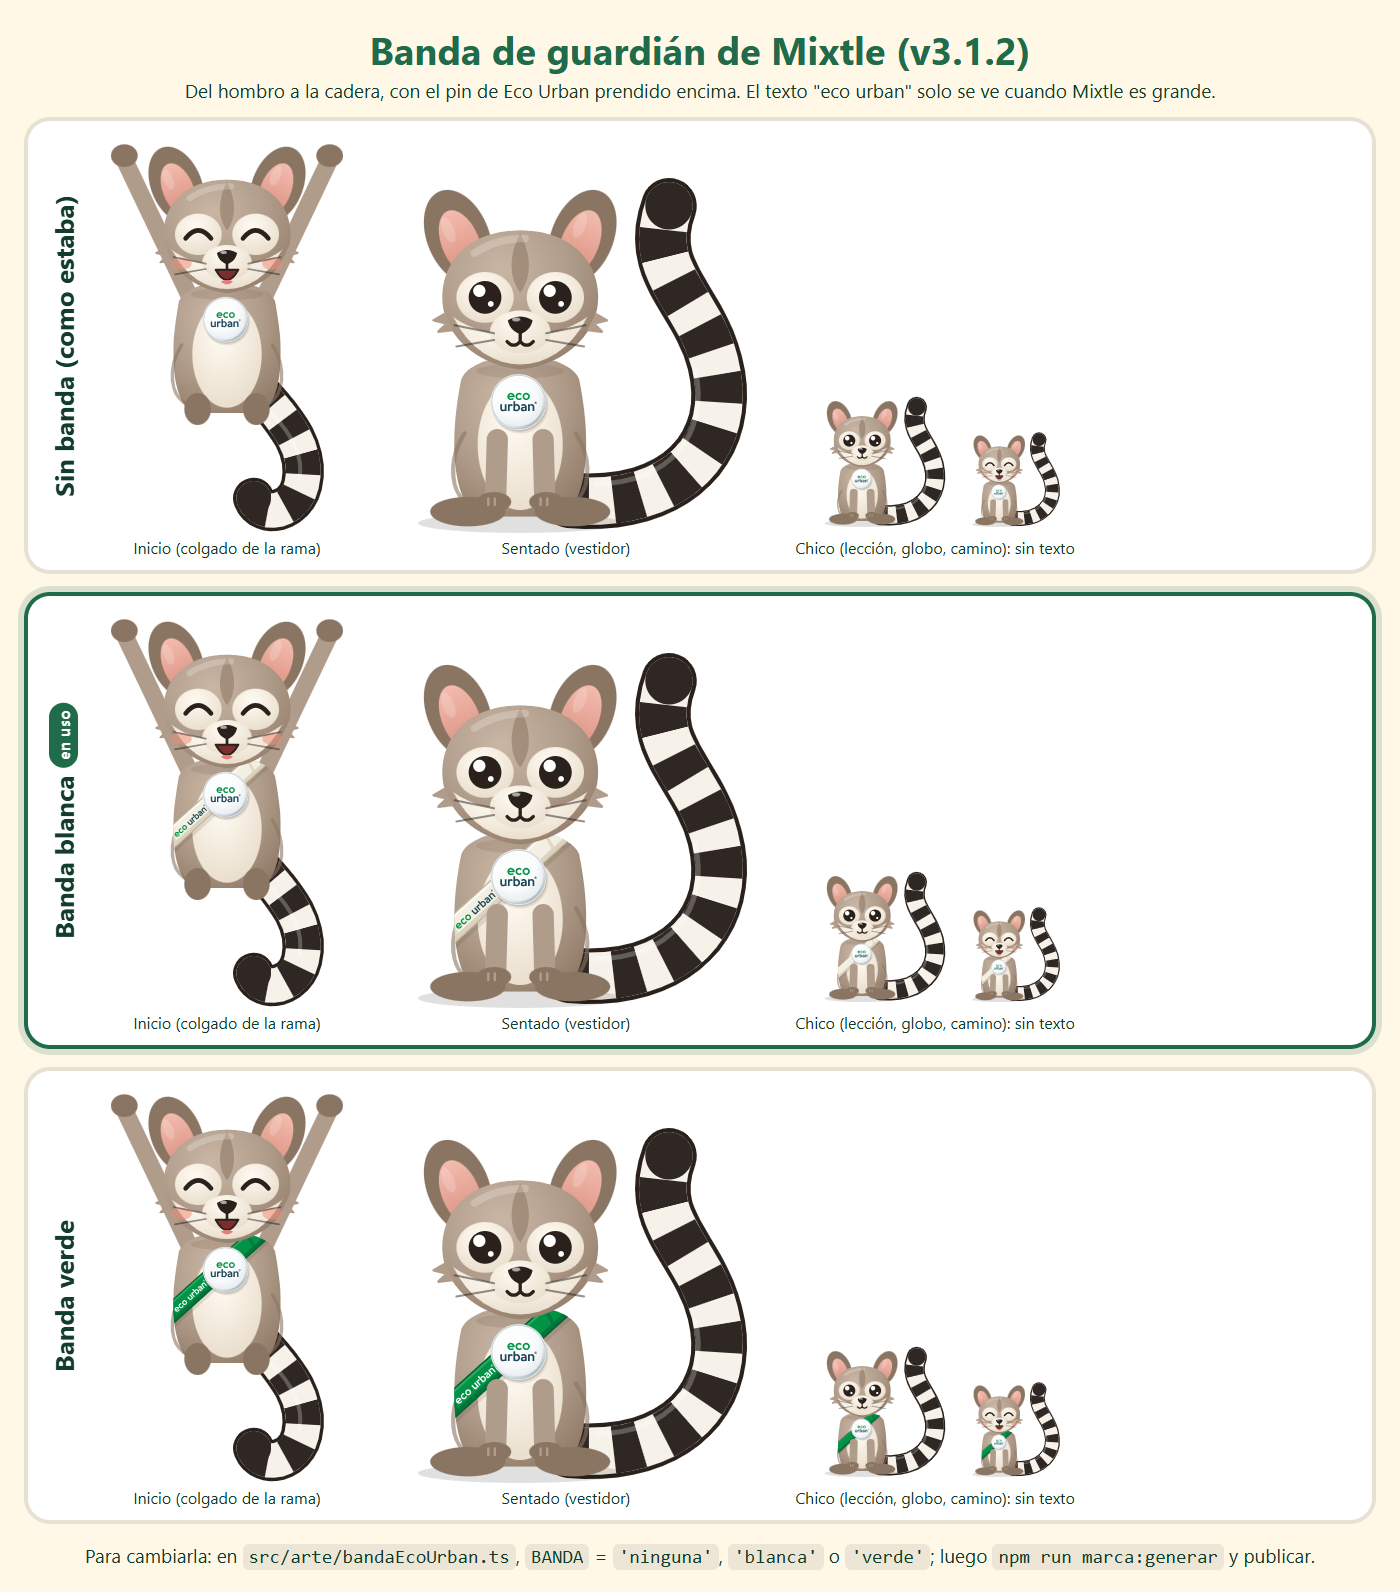
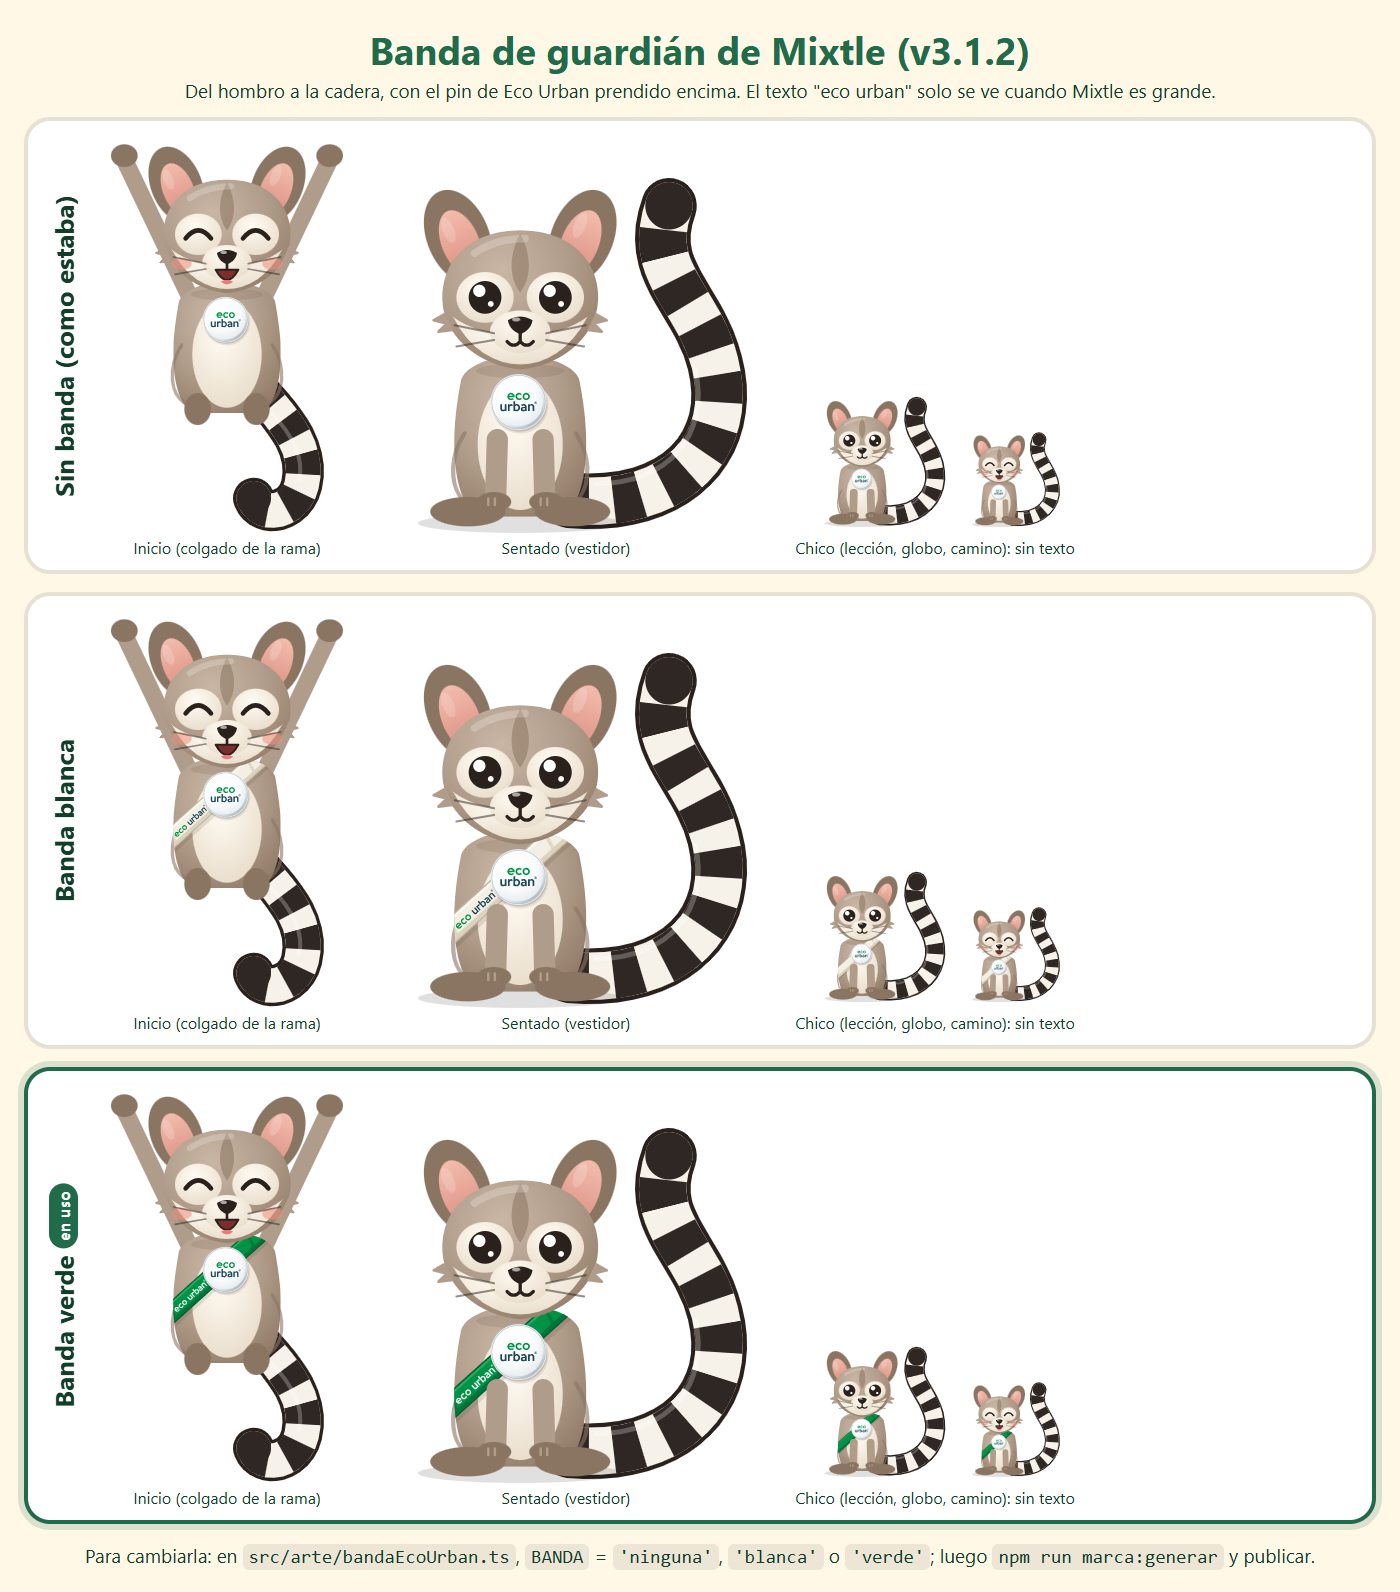
3.1.3, parte 2: la banda de guardián, verde
BANDA = 'verde' (verde Eco Urban #009345 con el logotipo en blanco).
Logo de la pantalla de carga, hoja de personaje y banda-variantes.png
regenerados; los íconos de la app no cambian. CHANGELOG 3.1.3.

Changed region(s): [[0.0, 0.3693, 1.0, 0.9849]]

diff --git a/src/arte/bandaEcoUrban.ts b/src/arte/bandaEcoUrban.ts
@@ -23,7 +23,7 @@ export type Banda = 'ninguna' | 'blanca' | 'verde';
  * LA banda en uso. Para cambiarla basta con este valor: 'ninguna', 'blanca' o 'verde' (todo Mixtle, en
  * todas sus poses y apariciones, la toma de aquí). Luego: npm run marca:generar y npm run build.
  */
-export const BANDA: Banda = 'blanca';
+export const BANDA: Banda = 'verde';
 
 /** Colores de cada banda: tela, sombra del pliegue, orilla y el logotipo (a todo color o en blanco). */
 const COLORES: Record<Exclude<Banda, 'ninguna'>, { tela: string; sombra: string; orilla: string; brillo: string; logo: 'color' | 'blanco' }> = {

diff --git a/tests/bandaEcoUrban.test.tsx b/tests/bandaEcoUrban.test.tsx
@@ -40,8 +40,8 @@ function textoVisible(pose: ExpresionMixtle): number {
 }
 
 describe('la banda de guardián', () => {
-  it('en uso: la blanca', () => {
-    expect(BANDA).toBe('blanca');
+  it('en uso: la verde (v3.1.3)', () => {
+    expect(BANDA).toBe('verde');
   });
 
   it.each(POSES.filter((p) => p !== 'celebrando'))('pose "%s": el texto de la banda se ve completo (ningún brazo, mano, cabeza ni el pin lo tapa)', (pose) => {

diff --git a/CHANGELOG.md b/CHANGELOG.md
@@ -2,6 +2,21 @@
 
 Fechas de octubre y noviembre de 2026. Las etiquetas de git marcan las versiones que vio Eco Urban.
 
+## v3.1.3 (11 de noviembre) — Ajuste final
+
+La versión anterior queda en la etiqueta `v3.1.2`.
+
+### 1. "¿Quién va a jugar?": el globo de Mixtle ya no tapa las tarjetas
+
+- En el celular acostado, el globo de texto de Mixtle tapaba la parte de abajo de las tarjetas de grupo y la mitad de "Nuevo grupo". La prueba de la v3.1.2 solo medía a Mixtle, no a su globo, y por eso no lo vio.
+- **La pantalla ahora tiene dos zonas que no se enciman.** La lista de grupos se desplaza en su propia área. En pantallas bajas (celular acostado, laptop con zoom al 150 %), Mixtle va en una columna a la izquierda con el globo arriba y más angosto (271 px), y la lista empieza debajo de los botones de sonido. En las demás pantallas, Mixtle y su globo van en un renglón propio abajo. Las tarjetas de los grupos no cambian de tamaño.
+- **Medido** con 2, 4 y 7 grupos, arriba de la lista y desplazada hasta abajo: nada tapa ninguna tarjeta en compu, laptop con zoom al 125 y 150 %, celular acostado, tablet y tablet parada. En el celular parado y en la tablet chica parada el juego pide girar el aparato.
+- **Prueba nueva:** `e2e/grupos.spec.ts` revisa a Mixtle, su globo mientras habla y la marca de Eco Urban. Se comprobó que falla si el globo vuelve a tapar las tarjetas.
+
+### 2. La banda de guardián, verde
+
+- `BANDA = 'verde'`: verde Eco Urban (#009345) con el logotipo en blanco. Logo de la pantalla de carga, hoja de personaje y `docs/marca/banda-variantes.png` regenerados. Los íconos de la app no cambian.
+
 ## v3.1.2 (11 de noviembre) — Ajustes de marca Eco Urban
 
 La versión anterior queda en la etiqueta `v3.1.1-estable`.

diff --git a/docs/marca.md b/docs/marca.md
@@ -81,7 +81,7 @@ Desde la v3.1, Mixtle trae en el pecho un pin con el logotipo de Eco Urban. Es p
 
 Mixtle trae una banda cruzada en el torso, del hombro izquierdo a la cadera derecha, como la de un guardaparques ("Guardianes del parque"). Lleva "eco urban" escrito y el pin prendido encima, en el pecho.
 
-- **En uso: la blanca**, de color blanco hueso con el logotipo a todo color. Hay también una verde (#009345, con el logotipo en blanco) y la opción de no llevarla. Se cambia con un solo valor: `BANDA` en `src/arte/bandaEcoUrban.ts` (`'ninguna'`, `'blanca'` o `'verde'`). Después se corre `npm run marca:generar` y se publica.
+- **En uso: la verde** (#009345, con el logotipo en blanco), desde la v3.1.3. Hay también una blanca (blanco hueso con el logotipo a todo color) y la opción de no llevarla. Se cambia con un solo valor: `BANDA` en `src/arte/bandaEcoUrban.ts` (`'ninguna'`, `'blanca'` o `'verde'`). Después se corre `npm run marca:generar` y se publica.
 - **El texto sigue la inclinación** de la banda (42°) sin estirarse. Mide 10 de las 440 unidades del cuerpo: es lo más grande que cabe sin que lo tape un brazo, la cabeza o el pin. Queda libre en 11 de las 12 poses. En "celebrando" el brazo levantado cruza la banda, y ahí va sin texto.
 - **El texto solo se ve cuando Mixtle es grande:** con el cuerpo de 250 px o más, donde el logotipo mide 5.7 px o más (inicio y vestidor en una laptop de 1366×768, proyector, vitrina). Más chico (lección, globo, camino, selección de grupo, diploma) va solo la tela de la banda con el pin, para que no quede una mancha.
 - **Convive con los accesorios:** el paliacate y la mochila van encima de la banda y la capa por detrás. Ninguno tapa el texto.
